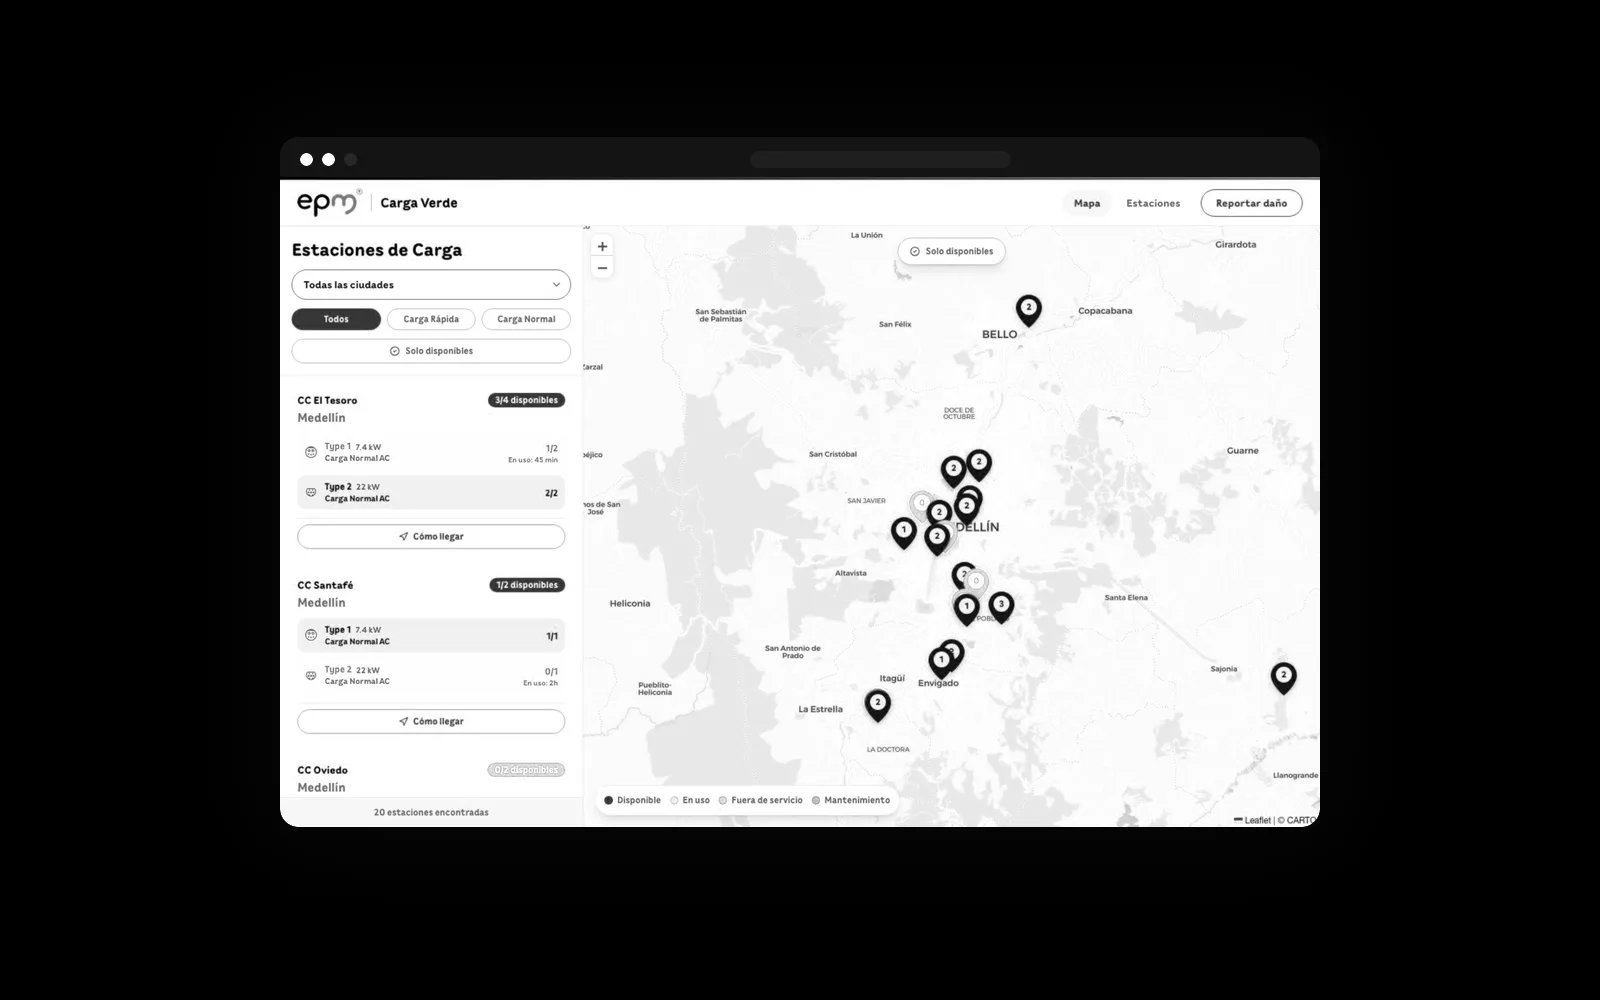
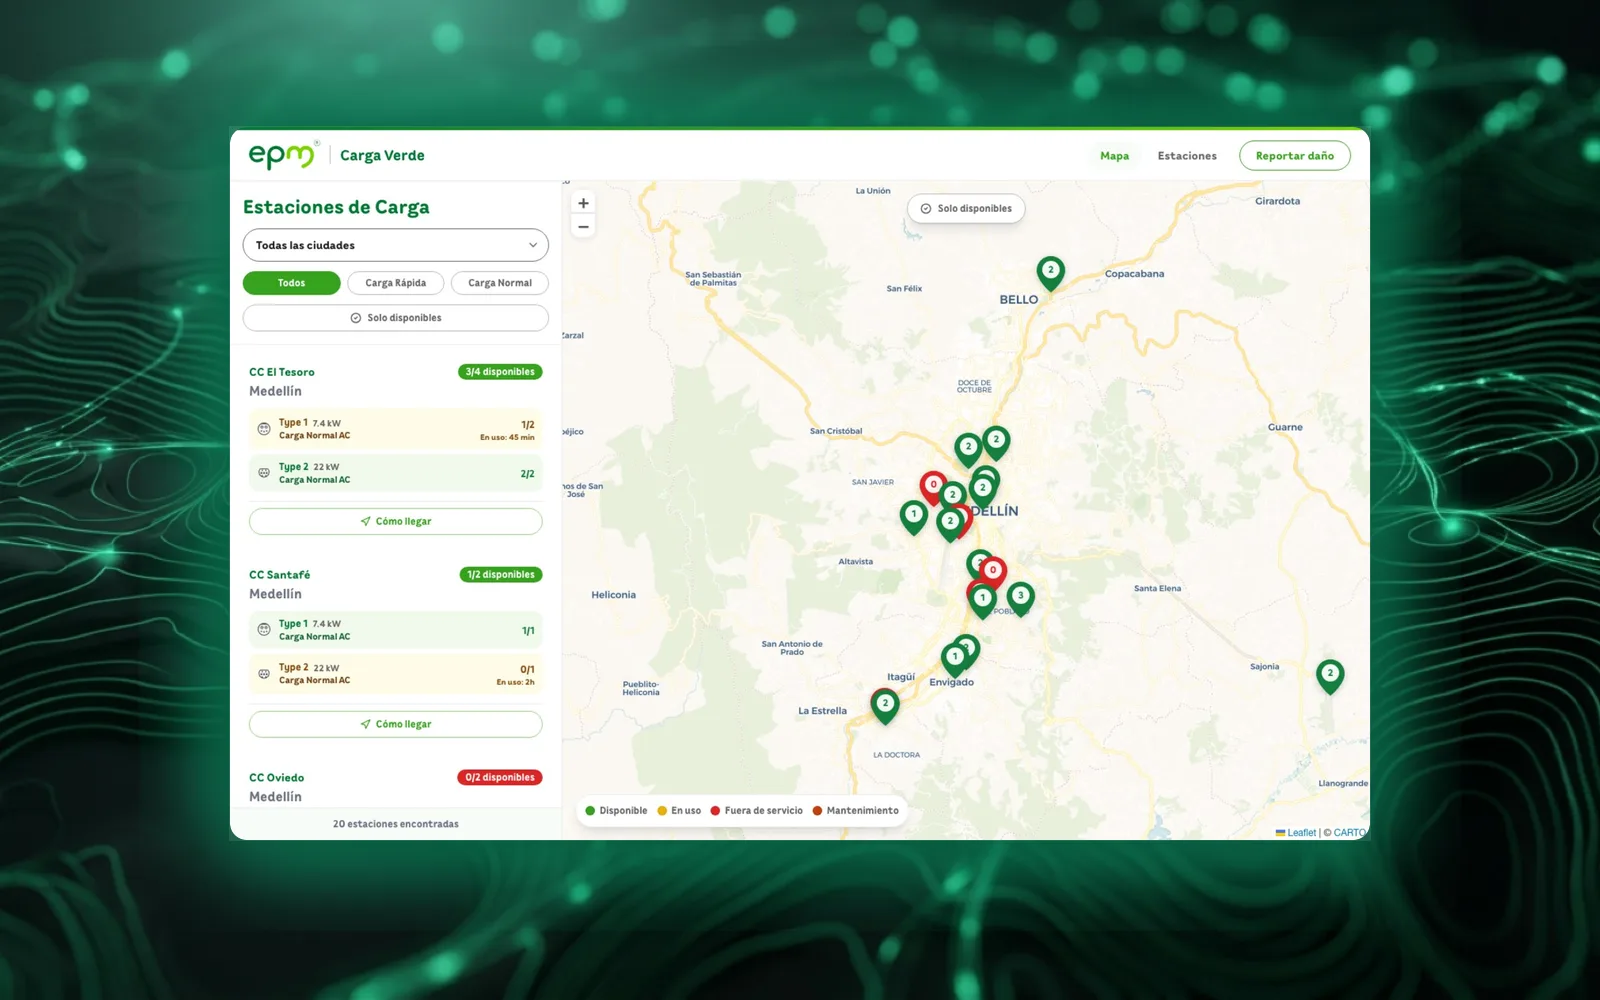
Restage EPM + Solving-AI flagship covers as spatial scenes (real UI in generated backdrops)
Replaces the flat browser-framed covers with the "Spatial UI Staging" treatment
(recommended by the two-brain Agy/Claude review): each real product screenshot
floats as a frameless glass panel inside an AI-generated abstract scene with an
accent glow-halo, matching the Nvidia cover's beauty without fabricating any UI.

- EPM: real Carga Verde map in an emerald "energy grid" scene (Imagen 3 backdrop)
- Solving-AI: real Autopilot app in a violet "quantum/neural" scene
- Both 1600x1000 jpg+webp; cache-bust bumped to ?v=5
- Nvidia unchanged (already the abstract reference); Bucket/YMA covers not
  restaged — they aren't displayed anywhere on the site

diff --git a/index.html b/index.html
@@ -210,8 +210,8 @@
             <span class="case-card__featured">Featured case</span>
             <div class="case-card__image">
               <picture>
-                <source srcset="assets/epm/card-cover.webp" type="image/webp">
-                <img src="assets/epm/card-cover.jpg" alt="EPM Carga Verde, the EV charger availability app I designed and built, showing a live station map of Medellin" width="1600" height="1000" loading="eager" fetchpriority="high" decoding="async">
+                <source srcset="assets/epm/card-cover.webp?v=5" type="image/webp">
+                <img src="assets/epm/card-cover.jpg?v=5" alt="EPM Carga Verde, the EV charger availability app I designed and built, showing a live station map of Medellin" width="1600" height="1000" loading="eager" fetchpriority="high" decoding="async">
               </picture>
             </div>
             <div class="case-card__content">
@@ -272,8 +272,8 @@
           <a href="case-solving-ai.html" class="case-card fade-in">
             <div class="case-card__image">
               <picture>
-                <source srcset="assets/solving-ai/card-cover-real.webp?v=4" type="image/webp">
-                <img src="assets/solving-ai/card-cover-real.jpg?v=4" alt="Solving AI Autopilot dashboard — the production AI-automation interface I designed and shipped" width="1600" height="1000" loading="lazy" decoding="async">
+                <source srcset="assets/solving-ai/card-cover-real.webp?v=5" type="image/webp">
+                <img src="assets/solving-ai/card-cover-real.jpg?v=5" alt="Solving AI Autopilot dashboard — the production AI-automation interface I designed and shipped" width="1600" height="1000" loading="lazy" decoding="async">
               </picture>
             </div>
             <div class="case-card__content">
